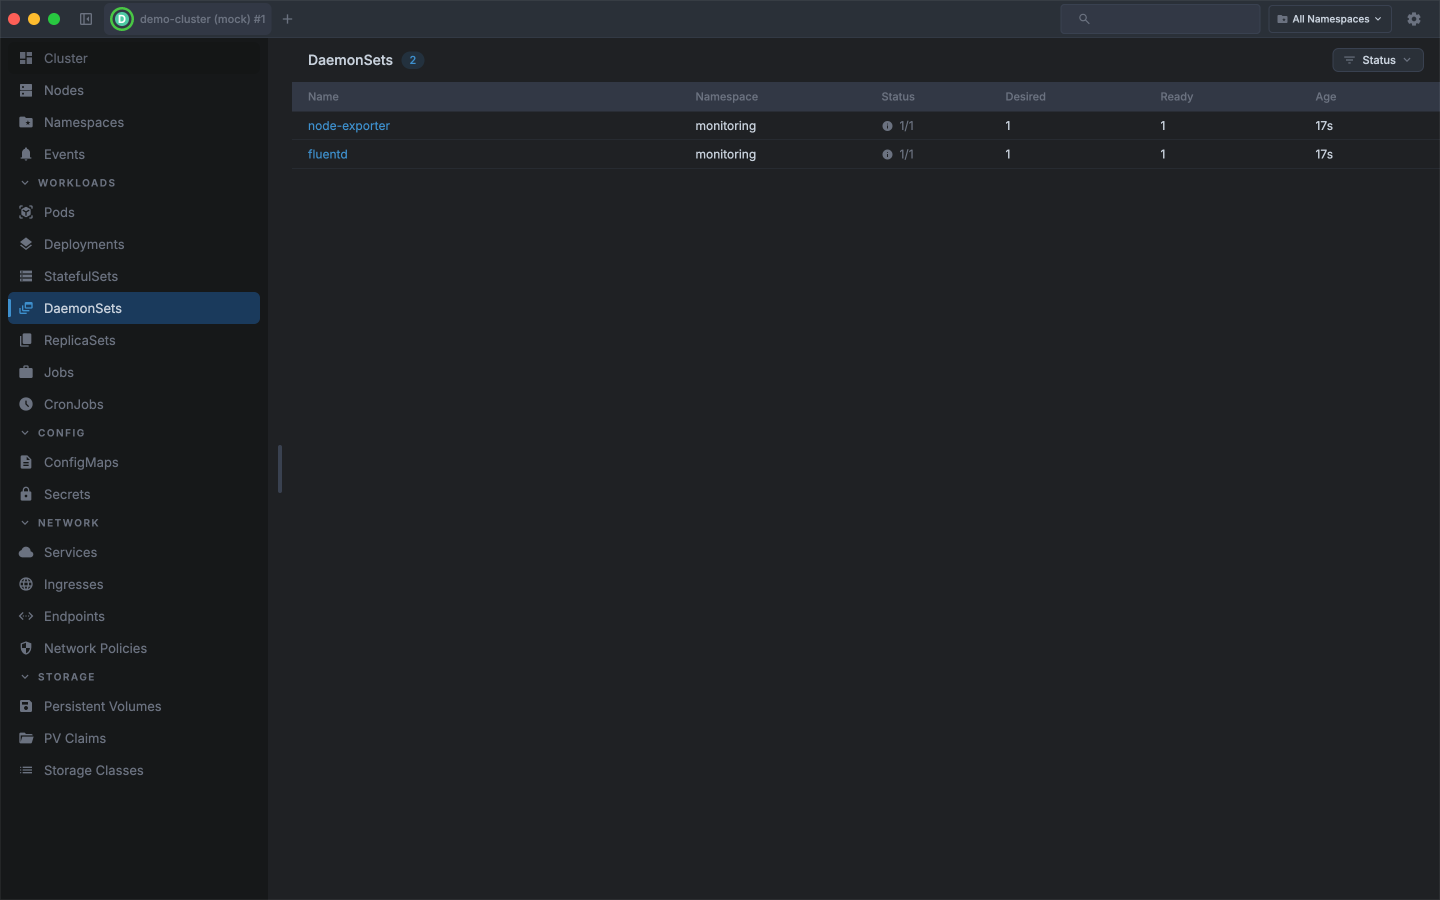
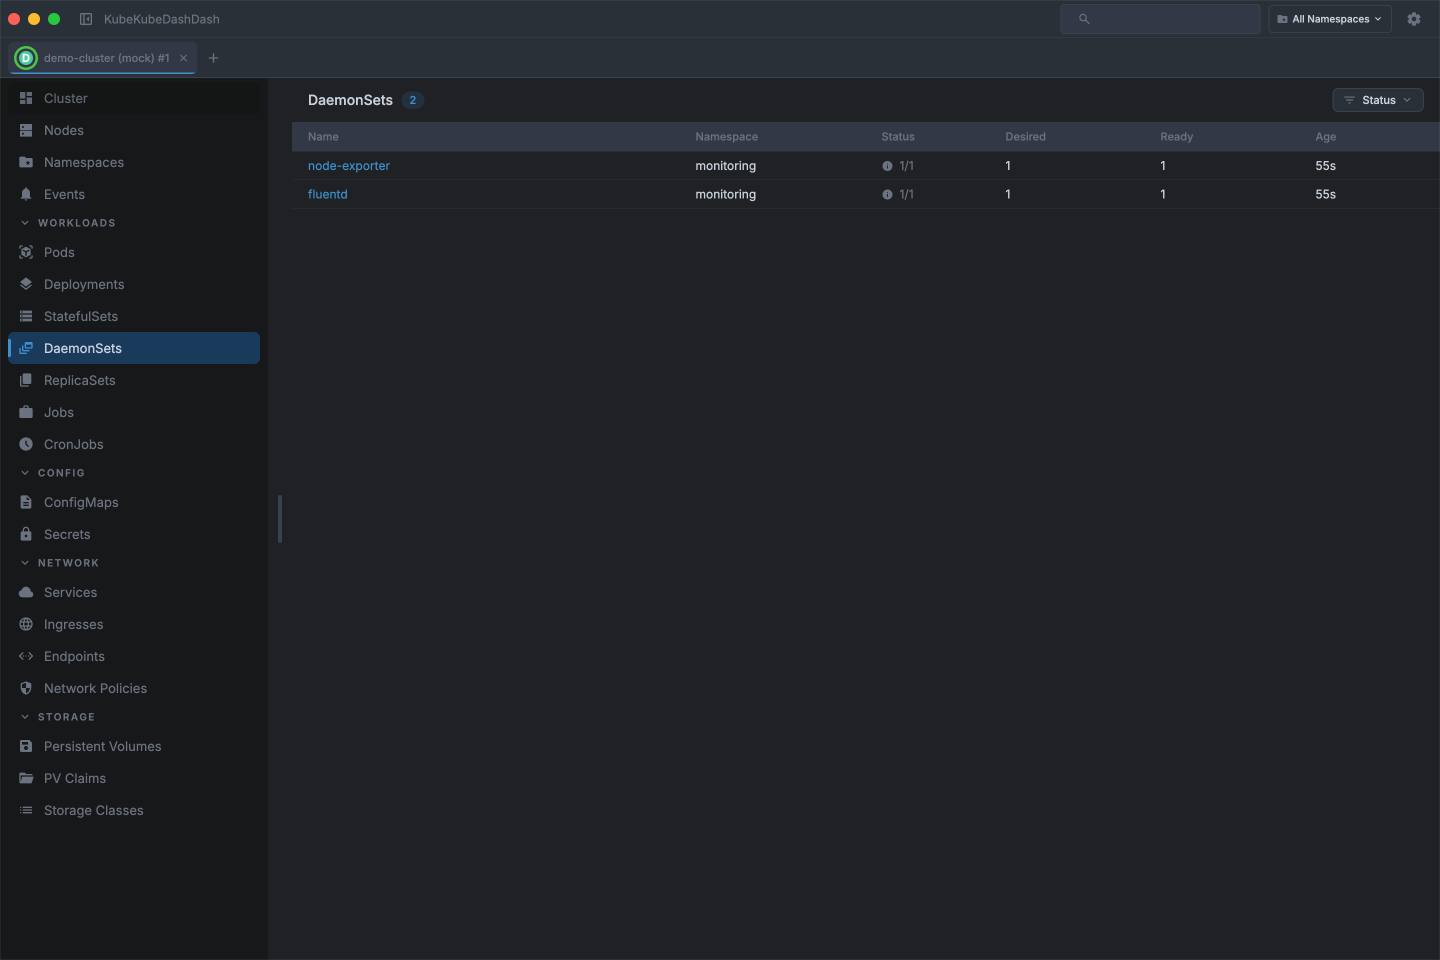
fix(screenshots): increase delay times for capturing screenshots to ensure proper loading

diff --git a/composeApp/src/desktopMain/kotlin/com/kubekubedashdash/screenshots/GenerateScreenshots.kt b/composeApp/src/desktopMain/kotlin/com/kubekubedashdash/screenshots/GenerateScreenshots.kt
@@ -96,7 +96,7 @@ fun main() {
         workspaces.forEach { workspace ->
             key(workspace.id) {
                 val windowState = rememberWindowState(
-                    size = DpSize(1440.dp, 900.dp),
+                    size = DpSize(1440.dp, 960.dp),
                     position = workspace.initialPosition ?: WindowPosition.PlatformDefault,
                 )
                 Window(
@@ -151,7 +151,7 @@ private suspend fun runScreenshotJob(outDir: File) = coroutineScope {
         )
         val sessionVm = initialWorkspace.activeSession!!.viewModel
         sessionVm.isConnected.first { it }
-        delay(10_000) // let informers populate and demo simulator warm up before first capture
+        delay(20_000) // let informers populate and demo simulator warm up before first capture
 
         val screens: List<Pair<String, Screen>> = listOf(
             "01-cluster-overview" to Screen.Main.ClusterOverview,
@@ -178,24 +178,24 @@ private suspend fun runScreenshotJob(outDir: File) = coroutineScope {
 
         for ((slug, screen) in screens) {
             sessionVm.navigate(screen)
-            delay(900L)
+            delay(5000L)
             captureWindow(initialWorkspace.id, outDir.resolve("$slug.png"))
             log.info("captured {}", slug)
         }
 
         log.info("Capturing settings dialog over cluster overview")
         sessionVm.navigate(Screen.Main.ClusterOverview)
-        delay(900L)
+        delay(5000L)
         initialWorkspace.showSettings()
-        delay(900L)
+        delay(5000L)
         captureWindow(initialWorkspace.id, outDir.resolve("21-settings.png"))
         initialWorkspace.dismissSettings()
-        delay(300L)
+        delay(5000L)
         log.info("captured 21-settings")
 
         log.info("Building light/dark theme comparison")
         sessionVm.navigate(Screen.Main.ClusterOverview)
-        delay(900)
+        delay(5000L)
         ThemeManager.setMode(ThemeMode.DARK)
         delay(700)
         val themeDark = outDir.resolve("99-theme-dark.png")
@@ -239,7 +239,7 @@ private suspend fun runScreenshotJob(outDir: File) = coroutineScope {
 
         log.info("Capturing All Clusters tab")
         initialWorkspace.setActive(WorkspaceTab.AllClusters.key)
-        delay(5_000L)
+        delay(10_000L)
         captureWindow(initialWorkspace.id, outDir.resolve("22-all-clusters.png"))
         log.info("captured all-clusters")
 
@@ -254,9 +254,9 @@ private suspend fun runScreenshotJob(outDir: File) = coroutineScope {
         watchdogs += autoDismissModalsForever(this, secondWorkspace)
         val secondVm = secondWorkspace.activeSession!!.viewModel
         secondVm.isConnected.first { it }
-        delay(1500)
+        delay(5000)
         secondVm.navigate(Screen.Main.Nodes())
-        delay(900)
+        delay(5800)
 
         val w1 = windowsByWorkspace.value.getValue(initialWorkspace.id)
         val w2 = windowsByWorkspace.value.getValue(secondWorkspace.id)
@@ -266,13 +266,13 @@ private suspend fun runScreenshotJob(outDir: File) = coroutineScope {
         // Park the second window off-screen, place the first on-screen, capture.
         moveWindow(w2, -4000, 0)
         moveWindow(w1, 60, 80)
-        delay(500)
+        delay(5000)
         captureWindow(initialWorkspace.id, leftPath)
 
         // Swap: park the first off-screen, bring the second on-screen, capture.
         moveWindow(w1, -4000, 0)
         moveWindow(w2, 60, 80)
-        delay(500)
+        delay(5000)
         captureWindow(secondWorkspace.id, rightPath)
 
         compositeMultiWindow(leftPath, rightPath, outDir.resolve("99-multi-window.png"))
